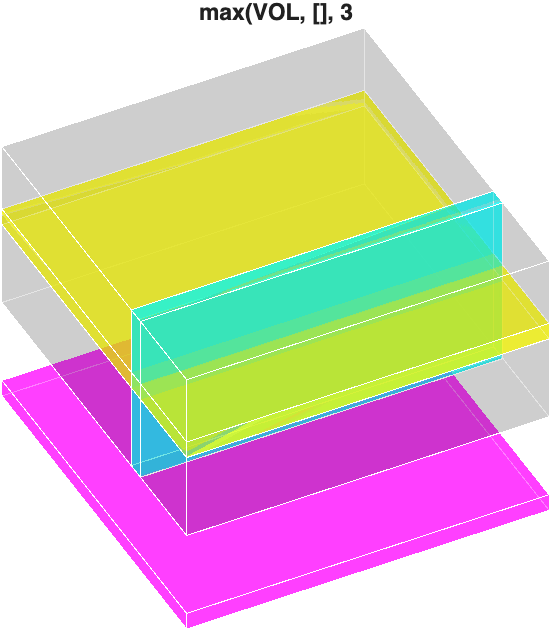
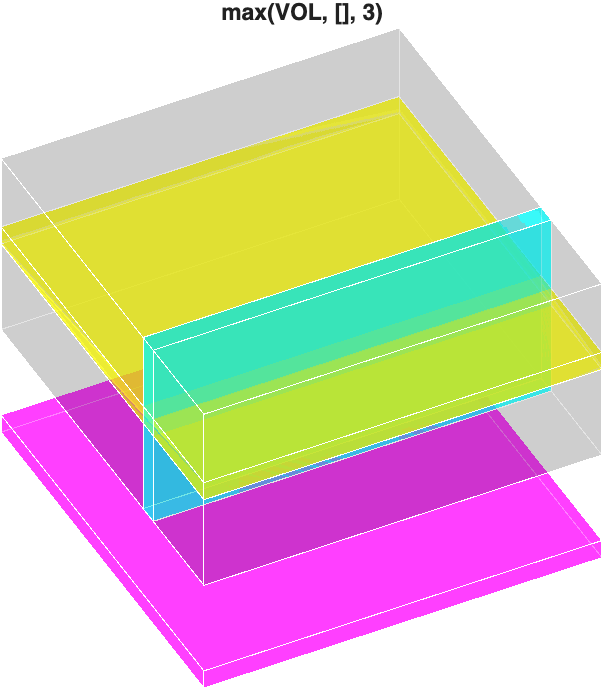
add confocal rending page

diff --git a/docs/volumeProcessing/renderingConfocalVolumes.md b/docs/volumeProcessing/renderingConfocalVolumes.md
@@ -1,18 +1,30 @@
+# Rendering Confocal Volumes
 
+Confocal image stacks can be rendered in 3D just like CT or MRI volumes, but they come with a few differences that change how we render them:
 
-Upon loading the image, the volumeViewer app displays three orthogonal slice views of the volume in the slice viewer panels on the left and one 3D render of the volume in the 3-D volume panel. In the Rendering Editor panel on the right is a plot of the alphamap. As you can see, the alphamap has a linear relation to voxel intensities.
+- **No standard intensity scale.** CT intensities are calibrated to [Hounsfield units](medVolumeViewer.md#alphamaps), so an alphamap preset like "CT-Bone" works on any CT scan. Confocal intensities depend on the staining, the laser power, and the detector settings, so there is no universal preset. You will usually need to adjust the alphamap by hand.
+- **Multiple channels.** Each fluorescent label is captured in its own color channel. Most 3D rendering tools expect a single 3D volume, so you will often render one channel at a time, or combine them deliberately.
+- **Anisotropic voxels.** The distance between optical slices is usually larger than the in-plane pixel size, so the voxels are [anisotropic](volumeOverview.md#voxel-shapes). If you don't account for this, the render is squashed along the z-axis.
 
-In the default alphamap only voxels inside the CT bore are opaque—hence the cylindrical 3D render. You can adjust the alphamap to view all voxels in the volume
+On this page, we render a confocal stack of a fruit fly brain, first interactively with the **Volume Viewer** app and then programmatically with **`volshow`**.
 
-The volumeViewer app automatically renders the volume on load. You can adjust the Render settings
+![volume render of the fruit fly brain](images/fly-brain-vol-render.png){ width="450"}
 
-## The Volume Viewer App
+!!! info "About the dataset"
 
-The MATLAB app **`volumeViewer`** accepts 3D volumes and can render them in 3D, allowing users to visualize and interact with the volumes using a graphical interface. This app is 
+    This is the "Fly Brain" sample image included with [Fiji](https://imagej.net/software/fiji/){target="_blank"}: a confocal scan of a *Drosophila* brain.
 
-For this example, we will load a confocal stack of a fruit fly brain, which can be found in the MtMdata/unit3 folder:
+    - **Green:** staining with the nc82 antibody, which labels synapses and outlines the brain's neuropil
+    - **Red:** the expression pattern of the GAL4 driver line 78y
+
+    The original image was smoothed and resampled 4 times in each direction. The brain was prepared and scanned in the Heisenberg lab in Würzburg, Germany. Courtesy of Benjamin Schmid, author of the ImageJ 3D Viewer ([neurofly.de](http://www.neurofly.de/){target="_blank"}).
+
+## Loading the Fly Brain
+
+The fly brain is stored as a TIFF stack in the `MtMdata/unit2` folder. We load it with the course function [**`mmReadImgND`**](loadingConfocalDatasets.md#mmreadimgnd):
 
 ```matlab linenums="1" title="Load Fly Brain"
+mmSetUnitDataFolder(2) % set current folder to the unit2 data folder
 [FB,meta] = mmReadImgND("flybrain.tif");
 ```
 
@@ -20,55 +32,157 @@ For this example, we will load a confocal stack of a fruit fly brain, which can 
   Name        Size                     Bytes  Class     Attributes
 
   FB        256x256x3x57            11206656  uint8               
-  meta        1x1                       3725  struct       
+  meta        1x1                       4135  struct              
 ```
 
-- FB is a 4D array with 3 channels and 57 slices. Note that the blue channel is blank (all zeros), which means it does not contribute to the rendering process and can be ignored or excluded when visualizing or processing the data.
+…`FB` is an 8-bit 4D array with 256 rows, 256 columns, 3 channels, and 57 slices. The red channel (channel 1) holds the 78y expression pattern and the green channel (channel 2) holds the nc82 staining. The blue channel (channel 3) is blank (all zeros), so we can ignore it.
 
-### Volume Rendering
+The voxel dimensions are stored in the metadata:
 
-**`volumeViewer`** can only handle 3D volumes. So, we'll extract the green channel for display.
+```matlab
+meta.PixelSpacing
 
-```matlab linenums="1" title="Load Ch2 into Volume Viewer"
-FBg = squeeze(FB(:,:,2,:)); % extract ch2
-volumeViewer(FBg) % display in the Volume Viewer app
+ans =
+
+    2.6755    2.6755    3.9474
+```
+
+…Each voxel is 2.68 µm × 2.68 µm in the xy-plane, but 3.95 µm along the z-axis, so the voxels are anisotropic: about 1.5 times deeper than they are wide. That makes the whole brain roughly 685 µm across (256 × 2.68 µm) and 225 µm deep (57 × 3.95 µm).
+
+## The Volume Viewer App
+
+The Image Processing Toolbox app **`volumeViewer`** renders 3D volumes interactively, with controls for the alphamap, colormap, and rendering style. Unlike the [Medical Volume Viewer](medVolumeViewer.md), it works with any 3D array and doesn't need a `medicalVolume`.
+
+**`volumeViewer`** can only display one 3D volume at a time, so we index out the green channel first (see [Indexing Image Stacks](volumeIndexing.md)):
+
+```matlab linenums="1" title="Load the green channel into Volume Viewer"
+FBg = squeeze(FB(:,:,2,:)); % extract channel 2 (nc82) as a 3D array
+volumeViewer(FBg)           % display in the Volume Viewer app
 ```
 
 ![Screengrab of VolumeViewer App showing the green channel from the fly brain](images/volViewer-flybrain-greenCh.png){ width="750"}
 
 >**Screen grab of the Volume Viewer app showing a volume render of the green channel from the fly brain.** The layout has been changed to "Stack 2D slices".
 
-The **Left Panel** of the Volume viewer has stacked orthogonal slice views. Here we show slices from the middle of the volume. The top orthogonal view shows an aerial view of the volume, where the direction of the Z-axis is "out of the screen", towards the viewer. The other two views show views from the sides of the volume, where either the X or Y axis "comes out of the screen." You drag the scroll bar to scrub through slices in the volume along the axis that is coming out of the screen.
+The **Left Panel** of the Volume Viewer has stacked orthogonal slice views. Here we show slices from the middle of the volume. The top orthogonal view (XY Slice) shows an aerial view of the volume, where the z-axis points "out of the screen," toward the viewer. The other two views show the sides of the volume, where either the x- or y-axis "comes out of the screen." Drag the scroll bar to scrub through slices along the axis that is coming out of the screen.
 
-The **Large Middle Panel** shows a 3D render of the volume. In this render, the background voxels surrounding the fly brain have been set to completely transparent, while the voxels that make up the brain tissue are semi-opaque.
+The **Large Middle Panel** shows a 3D render of the volume. In this render, the background voxels surrounding the fly brain are completely transparent, while the voxels that make up the brain tissue are semi-opaque.
 
-The **Right Panel** contains the Volume Rendering settings. At the top, the pop-up menu is set to "Volume Rendering." The "Alpha" panel shows the alphamap: a lookup table of voxel transparencies. The alphamap is currently set to "linear." In simple terms, this means that voxels with low intensity values (like 0) are completely transparent, while brighter voxels are more opaque. This allows the background to disappear while highlighting the structures of interest. The "Color" panel shows the colormap (LUT) settings, which in this case is set to the default gray colormap.
+The **Right Panel** contains the Rendering Editor. At the top, the pop-up menu is set to "Volume Rendering." The "Alpha" section shows the alphamap: a lookup table of voxel opacities. The alphamap is currently set to "linear," which means that voxels with low intensity values (like 0) are completely transparent, while brighter voxels are more opaque. This makes the background disappear while highlighting the structures of interest. The "Color" section shows the colormap settings, which in this case is set to the default gray colormap.
 
-We can adjust the Volume Rendering displays using the settings in the right panel.
+!!! tip "Correcting for voxel spacing"
+
+    By default, `volumeViewer` draws every voxel as a cube, which squashes the fly brain along the z-axis. To render it with the correct proportions, pass in the voxel spacing as scale factors:
+
+    ```matlab
+    volumeViewer(FBg, ScaleFactors=meta.PixelSpacing)
+    ```
+
+    See [Correcting for Voxel Spacing](#correcting-for-voxel-spacing) below for a side-by-side comparison.
+
+### Adjusting the Alphamap
+
+We can adjust the volume render using the settings in the Rendering Editor.
 
 ![Volume Viewer with adjusted Alphamap settings](images/volViewer-flybrain-greenCh-alphamapAdust.png){ width="450"}
 
->**Adjusting volume rendering settings.** Here we changed the volume render by  adjusting the alphamap to make the background voxels more opaque. We do this by dragging the left point on the line plot *slightly* upward (red arrow). We also changed the colormap to **`parula`** in the "Color" panel.
+>**Adjusting volume rendering settings.** Here we changed the volume render by adjusting the alphamap to make the background voxels more opaque. We do this by dragging the left point on the line plot *slightly* upward (red arrow). We also changed the colormap to **`parula`** in the "Color" panel.
 
-There are of course many ways to change the volume render. The "Alphamap" pop-up menu contains a variety of alphamap presets. These are primarily for medical image datasets and are named accordingly: e.g. MRI or CT-BONE. You can also roll your own alphamap by adding points to the alphamap line plot and adjusting their positions manually.
+The "Alphamap" pop-up menu also contains a variety of alphamap presets. These presets were designed for medical image datasets and are named accordingly (e.g., `ct-bone` or `mri`). Because confocal intensities aren't calibrated like CT intensities, the presets don't "mean" anything for the fly brain. They are still useful as starting shapes, though. You can also create your own alphamap by adding points to the alphamap line plot and dragging them into position.
 
 ![Vol Viewer side by side views of 2 different presets](images/volViewer-flybrain-greenCh-alphamapPresets.png){ width="750"}
 
->**Comparison of transparency map presets**. Notice how the changes in the transparency map line plot change which voxels in the volume are rendered. **Left Image.** `ct-bone` preset. **Right Image.** `mri` preset.
+>**Comparison of alphamap presets.** Notice how the shape of the alphamap determines which voxels in the volume are rendered. **Left Image.** The `ct-bone` preset is a steep step: dim voxels are fully transparent and bright voxels are opaque, so the render looks like a solid surface of the brightest neuropil. **Right Image.** The `mri` preset rises quickly and then levels off, so even dim voxels are partly visible, giving a translucent render. Both renders use the `parula` colormap.
 
+### Isosurface
 
-## Isosurface
+The Rendering Editor can also display the volume as an isosurface.
 
 ![volume viewer with isosurface turned on](images/volViewer-flybrain-greenCh-isosurface.png){ width="450"}
 
->**Isosurface render of the fly brain.** Notice the controls have changed dramatically in the right panel — you get one control: a slider.
+>**Isosurface render of the fly brain.** Notice the controls have changed dramatically in the Rendering Editor: you get a single "Isovalue" slider and a button to change the surface color.
 
-For the isosurface display, **volumeViewer** does a lot of the processing legwork in the background. First, it constructs a segmented mask of the volume, capturing voxels that fall within the range of the isovalue set by the slider. Then, it creates a 3D surface based on this mask. Finally, it renders the surface as the beautiful red "isosurface" we see displayed here. Adjusting the Isovalue restarts the process, modifying the generated surface and render displayed.
+For the isosurface display, **`volumeViewer`** does the processing legwork in the background. It finds the boundary where the voxel intensities cross the isovalue set by the slider and builds a 3D surface (made of vertices and faces) along that boundary, just like the [`isosurface` function](surfaceModels.md#creating-a-3d-surface-from-a-volume). It then renders that surface, shown here in red. Moving the slider recomputes the surface at the new isovalue: a low isovalue wraps the surface around the whole brain, while a higher isovalue surrounds only the brightest structures.
 
-### volshow
+## Rendering with `volshow`
 
-The function **volshow** renders the inputted volume using the default alphamap settings.
+The Volume Viewer app is great for exploring, but its settings aren't saved in your code. With [**`volshow`**](volshow.md), every setting is part of the script, so you can reproduce a render exactly, and you can do things the app can't, like render two channels together.
 
-![volshow render of the fly brain](images/volshow-flybrain-greenCh.png){ width="350"}
+### Correcting for Voxel Spacing
 
->Similar to **imshow**, **volshow** renders the image in its own figure or directly into a Live Script. To adjust the alphamap, you need to add inputs into the function call. Review the [MATLAB help documentation](https://www.mathworks.com/help/images/ref/volshow.html) for more information.
+`volshow` accepts a `Transformation` that maps voxel indices to real-world positions. For confocal data, the simplest transformation just scales each axis by the voxel spacing:
+
+```matlab linenums="1" title="Render with the correct voxel spacing"
+FBg = squeeze(FB(:,:,2,:)); % green channel (nc82)
+tform = affinetform3d(diag([meta.PixelSpacing 1])); % scale x, y, and z by the voxel spacing (µm)
+
+hvr = viewer3d(BackgroundColor="white", BackgroundGradient="off");
+volshow(FBg, Parent=hvr, Colormap=gray, Transformation=tform);
+```
+
+![side views of the fly brain rendered with and without voxel spacing](images/flybrain-volshow-spacing.png){ width="750"}
+
+>**Side view of the fly brain, rendered without (left) and with (right) the voxel spacing.** Without the spacing, each voxel is drawn as a cube, so the 57 slices take up the same depth as 57 pixels, and the brain looks flattened. With the spacing, each slice is drawn 3.95 µm deep instead of 2.68 µm, and the brain recovers its true thickness.
+
+The `diag([meta.PixelSpacing 1])` matrix is a [scaling transformation](surfaceModelTransformation.md#scaling): it stretches the x-, y-, and z-axes by 2.68, 2.68, and 3.95, respectively. This is the same idea as the transformation used to [place medical volumes in patient coordinates](loadingMedicalDatasets.md#voxel-and-patient-coordinates), just without any rotation or translation.
+
+### Rendering Two Channels
+
+To see where the 78y expression pattern (red) sits within the brain (green), we render the green channel as the main volume and add the red channel as a volume overlay. Each channel gets its own colormap and alphamap:
+
+```matlab linenums="1" title="Render the green and red channels together"
+FBg = squeeze(FB(:,:,2,:)); % green channel: nc82 (neuropil)
+FBr = squeeze(FB(:,:,1,:)); % red channel: 78y expression pattern
+tform = affinetform3d(diag([meta.PixelSpacing 1]));
+
+% colormaps: black to green, and black to magenta
+greenMap = [zeros(256,1) linspace(0,1,256)' zeros(256,1)];
+magentaMap = [linspace(0,1,256)' zeros(256,1) linspace(0,1,256)'];
+
+% alphamaps: dim voxels transparent; green faint, magenta strong
+greenAlpha = [zeros(20,1); linspace(0,0.12,236)'];
+magentaAlpha = [zeros(30,1); linspace(0,0.9,226)'];
+
+hvr = viewer3d(BackgroundColor="black", BackgroundGradient="off");
+volshow(FBg, Parent=hvr, Transformation=tform, ...
+    Colormap=greenMap, Alphamap=greenAlpha, ...
+    OverlayData=FBr, ...                    % add the red channel
+    OverlayRenderingStyle="VolumeOverlay", ... % render it as a volume, not as labels
+    OverlayColormap=magentaMap, OverlayAlphamap=magentaAlpha);
+```
+
+![two-channel render of the fly brain, with nc82 in green and 78y in magenta](images/flybrain-volshow-twochannel.png){ width="750"}
+
+>**Two-channel render of the fly brain.** The nc82 staining (green) outlines the neuropil, and the 78y GAL4 expression pattern (magenta) is overlaid. **Left:** viewed straight down the z-axis. **Right:** rotated to show the depth of the volume.
+
+A few things make this render work:
+
+- **The green alphamap is faint.** The green channel fills most of the brain, so if it's too opaque, it hides everything inside it. Keeping its maximum opacity low (0.12) makes it a translucent "context" for the red channel.
+- **The magenta alphamap is strong.** The red channel is sparse (fewer than 10% of its voxels are nonzero), so it can be much more opaque without blocking the view.
+- **Dim voxels are fully transparent.** Both alphamaps start with a run of zeros (`zeros(20,1)` and `zeros(30,1)`), which hides the dim background noise in each channel.
+- **Magenta instead of red.** Showing the red channel as magenta makes it easier to tell apart from green, including for viewers with red–green color blindness.
+
+!!! note "Why `VolumeOverlay`?"
+
+    By default, `volshow` treats `OverlayData` as a label map, where each integer value is a separate segment (like the kidneys and aorta in [Rendering with volshow](volshow.md#overlaying-label-maps)). The red channel is an intensity image, not a label map, so we set `OverlayRenderingStyle="VolumeOverlay"` to render it with a continuous colormap and alphamap.
+
+## Challenge
+
+??? question "Render the 78y channel on its own"
+
+    === "Question"
+
+        Using `volshow`, render only the red channel (78y) with the correct voxel spacing, a magenta colormap, and a white background.
+
+    === "Answer"
+
+        ```matlab linenums="1"
+        FBr = squeeze(FB(:,:,1,:)); % red channel (78y)
+        tform = affinetform3d(diag([meta.PixelSpacing 1]));
+        magentaMap = [linspace(0,1,256)' zeros(256,1) linspace(0,1,256)'];
+
+        hvr = viewer3d(BackgroundColor="white", BackgroundGradient="off");
+        volshow(FBr, Parent=hvr, Transformation=tform, Colormap=magentaMap);
+        ```
+
+        Notice that without the green channel for context, it's much harder to tell *where* in the brain the 78y pattern is. That's the value of rendering the two channels together.

diff --git a/docs/volumeProcessing/index.md b/docs/volumeProcessing/index.md
@@ -39,7 +39,7 @@ MATLAB offers several ways to render volumes and surfaces. They overlap quite a 
 | Tool | Kind | Renders | Best for | Requires | Learn more |
 | :--- | :--- | :------ | :------- | :------- | :--------- |
 | **Medical Volume Viewer**<br>`medicalVolumeViewer` | App | Volume, isosurface, label overlays | Interactively exploring CT and MRI datasets using medical alphamap presets (e.g., CT-Bone, CT-Lung), displayed in patient coordinates | Medical Imaging Toolbox, R2026a+ | [Medical Volume Viewer](medVolumeViewer.md) |
-| **Volume Viewer**<br>`volumeViewer` | App | Volume, isosurface, slice planes | Interactively exploring non-medical volumes, like confocal or EM stacks | Image Processing Toolbox | [MATLAB documentation](https://www.mathworks.com/help/images/ref/volumeviewer-app.html){target="_blank"} |
+| **Volume Viewer**<br>`volumeViewer` | App | Volume, isosurface, slice planes | Interactively exploring non-medical volumes, like confocal or EM stacks | Image Processing Toolbox | [Rendering Confocal Volumes](renderingConfocalVolumes.md) |
 | **`volshow`** + **`viewer3d`** | Function | Volume, isosurface, slice planes, label overlays | Scripted, reproducible renders in live scripts; combining several volumes in one scene | Image Processing Toolbox, R2022b+ | [Rendering with volshow](volshow.md) |
 | **`isosurface`** + **`patch`**<br>(`mmPlotMask2Surface`, `mmPlotAllSeg`) | Function | Surface | Smooth surface models that you can measure, move, rotate, scale, or export for 3D printing | MATLAB only | [Creating Surface Models](surfaceModels.md),<br>[Rendering Medical Datasets](medicalSurfaceRendering.md) |
 | **`images.ui.graphics.Surface`** | Function | Surface (in a `viewer3d` scene) | Placing a surface in the same scene as a `volshow` render | Image Processing Toolbox, R2022b+ | [Rendering with viewer3d](medicalSurfaceRendering.md#rendering-with-viewer3d) |
@@ -68,6 +68,7 @@ Most of the Volume Processing section needs **MATLAB R2022b or later** with two 
     | [Viewing Image Slices](volumeVisualization.md) | — | Image Processing |
     | [Medical Volume Viewer](medVolumeViewer.md) | **R2026a** | Medical Imaging |
     | [Rendering with volshow](volshow.md) | R2022b | Image Processing, Medical Imaging |
+    | [Rendering Confocal Volumes](renderingConfocalVolumes.md) | R2022b | Image Processing, bfmatlab (for `mmReadImgND`) |
     | [Creating Surface Models](surfaceModels.md) | — | MATLAB only (the optional figure code uses `volumeViewer` from the Image Processing Toolbox) |
     | [Rendering Medical Datasets](medicalSurfaceRendering.md) | R2022b | Image Processing, Medical Imaging |
     | [Transforming Surface Models](surfaceModelTransformation.md) | R2023b (for the `abyss` colormap) | MATLAB only |
